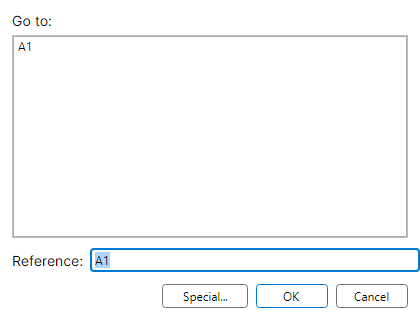
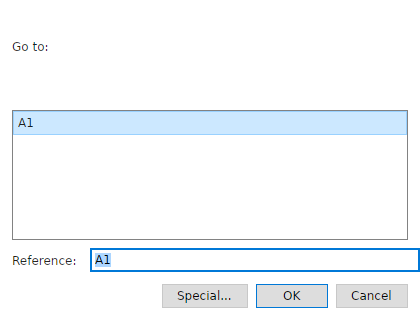
Align Avalonia Go To dialog with WPF

diff --git a/src/FreeX.App.Avalonia/MainWindow.cs b/src/FreeX.App.Avalonia/MainWindow.cs
@@ -13779,27 +13779,24 @@ public sealed partial class MainWindow : Window
             WindowStartupLocation = WindowStartupLocation.CenterOwner,
             ShowInTaskbar = false,
         };
+        var dialogChrome = AvaloniaCompactDialogChrome.WindowsStyle with
+        {
+            ButtonHeight = 24,
+            FontFamily = FormulaBarFontFamily,
+        };
+        AvaloniaCompactDialogChrome.ApplyWindow(dialog, dialogChrome);
 
         var defaultReference = FormatRangeReference(_session.SelectedRange);
 
         var historyList = new ListBox
         {
             ItemsSource = BuildGoToReferenceChoices(defaultReference),
-            Background = Brushes.White,
-            MinHeight = 150,
-        };
-        var historyBorder = new Border
-        {
-            Background = Brushes.White,
-            BorderBrush = FormulaBarControlBorder,
-            BorderThickness = new Thickness(1),
-            Child = historyList,
+            MinHeight = 130,
+            Margin = new Thickness(0, 24, 0, 0),
         };
         AutomationProperties.SetName(historyList, "Go To");
         AutomationProperties.SetHelpText(historyList, "Recent references and defined names");
         AutomationProperties.SetAutomationId(historyList, "GoToHistoryList");
-        historyList.FontSize = 12;
-        historyList.FontFamily = FormulaBarFontFamily;
 
         var inputBox = new TextBox
         {
@@ -13808,7 +13805,7 @@ public sealed partial class MainWindow : Window
         };
         AutomationProperties.SetName(inputBox, "Reference");
         AutomationProperties.SetAutomationId(inputBox, "GoToReferenceBox");
-        ApplyDialogTextBoxChrome(inputBox);
+        AvaloniaCompactDialogChrome.ApplyTextBox(inputBox, dialogChrome);
 
         var specialButton = new Button
         {
@@ -13817,7 +13814,7 @@ public sealed partial class MainWindow : Window
             MinWidth = 86,
         };
         AutomationProperties.SetAutomationId(specialButton, "GoToSpecialButton");
-        ApplyDialogButtonChrome(specialButton, width: 86);
+        AvaloniaCompactDialogChrome.ApplyButton(specialButton, dialogChrome, minWidth: 86);
 
         var acceptButton = new Button
         {
@@ -13827,7 +13824,7 @@ public sealed partial class MainWindow : Window
             IsDefault = true,
         };
         AutomationProperties.SetAutomationId(acceptButton, "GoToReferenceBoxAcceptButton");
-        ApplyDialogButtonChrome(acceptButton, width: 72, isDefault: true);
+        AvaloniaCompactDialogChrome.ApplyButton(acceptButton, dialogChrome, minWidth: 72, isDefault: true);
 
         var cancelButton = new Button
         {
@@ -13837,13 +13834,14 @@ public sealed partial class MainWindow : Window
             IsCancel = true,
         };
         AutomationProperties.SetAutomationId(cancelButton, "GoToReferenceBoxCancelButton");
-        ApplyDialogButtonChrome(cancelButton, width: 72);
+        AvaloniaCompactDialogChrome.ApplyButton(cancelButton, dialogChrome, minWidth: 72);
 
         historyList.SelectionChanged += (_, _) =>
         {
             if (historyList.SelectedItem is string reference)
                 inputBox.Text = reference;
         };
+        historyList.SelectedIndex = 0;
         historyList.DoubleTapped += (_, _) =>
         {
             if (historyList.SelectedItem is string reference)
@@ -13884,25 +13882,16 @@ public sealed partial class MainWindow : Window
             }
         };
 
-        var buttonRow = new StackPanel
-        {
-            Orientation = Orientation.Horizontal,
-            Spacing = 8,
-            HorizontalAlignment = AvaloniaHorizontalAlignment.Right,
-            Children =
-            {
-                specialButton,
-                acceptButton,
-                cancelButton,
-            },
-        };
+        var buttonRow = AvaloniaCompactDialogChrome.CreateActionRow(
+            [specialButton, acceptButton, cancelButton],
+            style: dialogChrome);
 
         var root = new AvaloniaGrid
         {
             Margin = new Thickness(12),
         };
-        root.RowDefinitions.Add(new RowDefinition { Height = GridLength.Auto });
         root.RowDefinitions.Add(new RowDefinition { Height = new GridLength(1, GridUnitType.Star) });
+        root.RowDefinitions.Add(new RowDefinition { Height = GridLength.Auto });
         root.RowDefinitions.Add(new RowDefinition { Height = GridLength.Auto });
         root.RowDefinitions.Add(new RowDefinition { Height = GridLength.Auto });
         root.ColumnDefinitions.Add(new ColumnDefinition { Width = new GridLength(90) });
@@ -13912,15 +13901,15 @@ public sealed partial class MainWindow : Window
         {
             Text = "Go to:",
             VerticalAlignment = AvaloniaVerticalAlignment.Center,
-            Margin = new Thickness(0, 0, 8, 6),
+            Margin = new Thickness(0, 0, 8, 4),
         };
         Grid.SetRow(historyLabel, 0);
         Grid.SetColumnSpan(historyLabel, 2);
         root.Children.Add(historyLabel);
 
-        Grid.SetRow(historyBorder, 1);
-        Grid.SetColumnSpan(historyBorder, 2);
-        root.Children.Add(historyBorder);
+        Grid.SetRow(historyList, 1);
+        Grid.SetColumnSpan(historyList, 2);
+        root.Children.Add(historyList);
 
         var referenceLabel = new TextBlock
         {
@@ -13931,7 +13920,7 @@ public sealed partial class MainWindow : Window
         Grid.SetRow(referenceLabel, 2);
         root.Children.Add(referenceLabel);
 
-        inputBox.Margin = new Thickness(0, 10, 0, 12);
+        inputBox.Margin = new Thickness(0, 8, 0, 12);
         Grid.SetRow(inputBox, 2);
         Grid.SetColumn(inputBox, 1);
         root.Children.Add(inputBox);
@@ -13943,8 +13932,7 @@ public sealed partial class MainWindow : Window
         dialog.Content = root;
         dialog.Opened += (_, _) =>
         {
-            inputBox.Focus();
-            inputBox.SelectAll();
+            AvaloniaCompactDialogChrome.FocusAndSelect(inputBox);
         };
         if (launchSmokeProbe is not null)
         {

diff --git a/tests/FreeX.App.Avalonia.Tests/DialogVisualParitySourceTests.cs b/tests/FreeX.App.Avalonia.Tests/DialogVisualParitySourceTests.cs
@@ -70,6 +70,24 @@ public sealed class DialogVisualParitySourceTests
     }
 
     [Fact]
+    public void GoToDialog_UsesSharedChromeAndWpfHistoryGridMetrics()
+    {
+        var source = File.ReadAllText(RepoFile("src", "FreeX.App.Avalonia", "MainWindow.cs"));
+
+        source.Should().Contain("AvaloniaCompactDialogChrome.ApplyWindow(dialog, dialogChrome);");
+        source.Should().Contain("ButtonHeight = 24,");
+        source.Should().Contain("MinHeight = 130,");
+        source.Should().Contain("Margin = new Thickness(0, 24, 0, 0),");
+        source.Should().Contain("new GridLength(1, GridUnitType.Star)");
+        source.Should().Contain("Grid.SetRow(historyList, 1);");
+        source.Should().Contain("AvaloniaCompactDialogChrome.ApplyButton(specialButton, dialogChrome, minWidth: 86);");
+        source.Should().Contain("AvaloniaCompactDialogChrome.CreateActionRow(");
+        source.Should().NotContain("var historyBorder = new Border");
+        source.Should().Contain("AutomationProperties.SetAutomationId(historyList, \"GoToHistoryList\");");
+        source.Should().Contain("AvaloniaCompactDialogChrome.FocusAndSelect(inputBox);");
+    }
+
+    [Fact]
     public void ConditionalFormatNewRule_UsesCurrentWpfDescriptionChrome_WithoutChangingRuleBehavior()
     {
         var source = File.ReadAllText(RepoFile("src", "FreeX.App.Avalonia", "MainWindow.ConditionalFormat.cs"));
